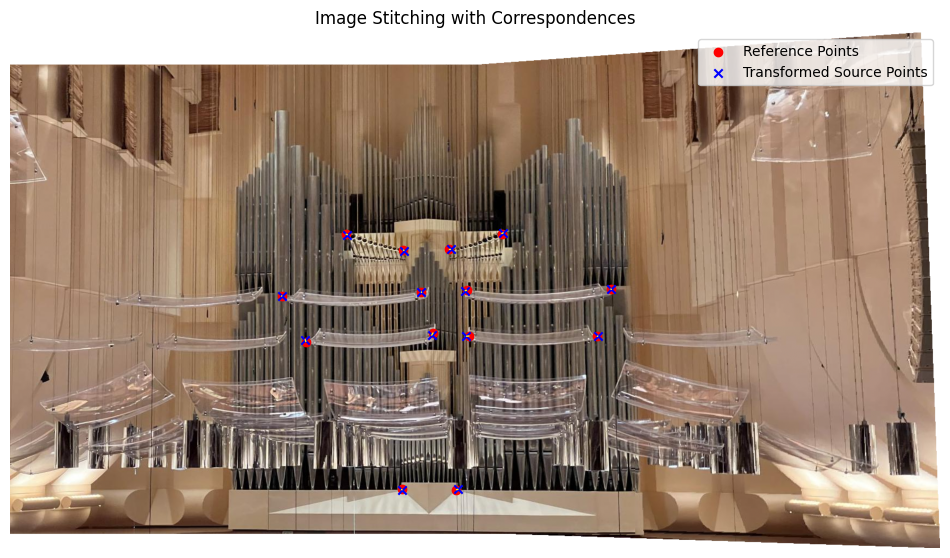
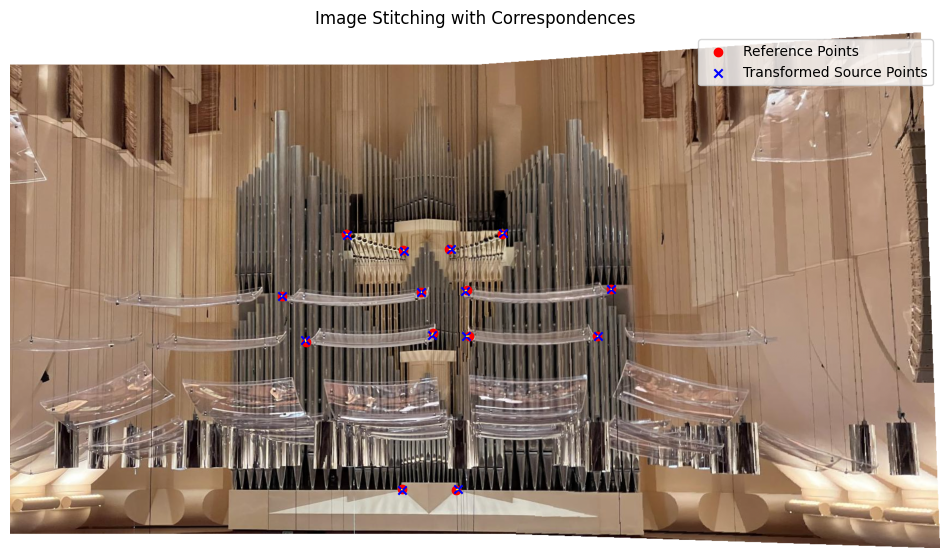
proj4

diff --git a/proj4/index.html b/proj4/index.html
@@ -103,7 +103,7 @@
 <body>
     <div class="main-content">
         <header>
-            <h1>CS180 Project 4A: Image Warping and Mosaicing</h1>
+            <h1>CS180 Project 4: Auto Stitching Photo Mosaics</h1>
             <h3 class="author">Author: Ziqian Luo</h3>
         </header>
 
@@ -113,6 +113,16 @@
                 <li><a href="#recover-homographies">Recover Homographies</a></li>
                 <li><a href="#rectification">Image Rectification</a></li>
                 <li><a href="#blend-mosaic">Blend the Images into a Mosaic</a></li>
+                <li><a href="#corner-detection">Detect Corners using Harris</a></li>
+                <li><a href="#ANMS">Adaptive Non-Maximal Suppression</a></li>
+                <li><a href="#feature-extraction">Feature Descriptor Extraction</a></li>
+                <li><a href="#feature-matching">Feature Matching using NNs and Lowe's Ratio Test</a></li>
+                <li><a href="#ransac">RANSAC for Robust Feature Matching</a></li>
+                <li><a href="#results">Results</a></li>
+                <li><a href="#bell-whistles1">Bell & Whistles: Multiscale Features</a></li>
+                <li><a href="#bell-whistles2">Bell & Whistles: Rotation-Invariant Features</a></li>
+                <li><a href="#bell-whistles3">Bell & Whistles: Auto Matching</a></li>
+                <li><a href="#reflection">Reflection</a></li>
             </ul>
         </div>
 
@@ -200,27 +210,25 @@
                     <li>Retrieves the alpha channels from both the canvas and warped source image.</li>
                 </ul>
             </li>
-            <li><strong>Determine Overlapping and Non-Overlapping Regions</strong>:
+            <li><strong>Compute Distance Transforms</strong>:
                 <ul>
-                    <li>Creates masks for overlapping and unique regions.</li>
+                    <li>Calculates the Euclidean distance transform for the alpha channels of both images, where each pixel's value represents the distance to the nearest edge of the image region.</li>
                 </ul>
             </li>
-            <li><strong>Create Blending Mask</strong>:
+            <li><strong>Create Blending Mask with Two-Band Blending</strong>:
                 <ul>
-                    <li>Combines masks to define blending behavior.</li>
-                </ul>
-            </li>
-            <li><strong>Blend the Images</strong>:
-                <ul>
-                    <li>Uses the <code>blend_images</code> function from project2 (multiresolution blending) with the <code>blend_mask</code> to create <code>blended_img</code>.</li>
+                    <li>Uses a low-pass filter (Gaussian blur) to separate smooth regions and a high-pass filter to retain details.</li>
+                    <li>For the high-pass blend, uses the maximum distance transform value between the two images to select the sharper details.</li>
+                    <li>For the low-pass blend, combines the images using a weighted ratio of the distance transforms to smoothly blend overlapping areas.</li>
                 </ul>
             </li>
             <li><strong>Create and Add Alpha Channel to Blended Image</strong>:
                 <ul>
-                    <li>Constructs an alpha channel and combines it with the RGB blended image.</li>
+                    <li>Constructs an alpha channel for the final blended image by combining non-zero regions from both images and adds it to the RGB blended result.</li>
                 </ul>
             </li>
         </ol>
+        
             
         <p>Below is an example of the original images and the final mosaic:</p>
         <img src="results\src1.png" alt="Source Image 1">
@@ -230,18 +238,69 @@
         <img src="results\src3.png" alt="Source Image 3">
         <img src="results\mosaic3.png" alt="Mosaic 3">
 
-        <p> Here are the laplacian stacks in the blending process</p>
-        <img src="results\lap11.png" alt="Laplacian Stack 1">
-        <img src="results\lap12.png" alt="Laplacian Stack 2">
-        <img src="results\lap21.png" alt="Laplacian Stack 3">
-        <img src="results\lap22.png" alt="Laplacian Stack 4">
-        <img src="results\lap31.png" alt="Laplacian Stack 5">
-        <img src="results\lap32.png" alt="Laplacian Stack 6">
+        <p> Here are the distance transforms, low-pass blended, and high-pass blended images for the second mosaic. </p>
+        <img src="results\distances.png" alt="Distance Transform">
+        <img src="results\blended.png" alt="Blended">
 
-        <p> The images turned out fairly well with multiresolution blending, with no visible seams. However, the second mosaic still shows some defects with many correspondences defined, which is due to the complexity of the images.</p>
-        <footer>
-            &copy; 2024 Ziqian Luo. No Rights Reserved.
-        </footer>
+        <p> The images turned out fairly well with multiresolution blending.</p>
+
+        <h2 id="corner-detection">Harris Corner Detection</h2>
+        <p>I used sample code for Harris Corner Detection and, by adjusting the parameters, identified key corners in the image.</p>
+        <img src="resultsb/harris.png" alt="Detected Corners">
+        
+        <h2 id="ANMS">Adaptive Non-Maximal Suppression (ANMS)</h2>
+        <p>I implemented the Adaptive Non-Maximal Suppression (ANMS) algorithm to refine the detected corners by reducing their number. This algorithm sorts corners based on response values and iteratively removes those that are too close. The distance threshold is determined by the smallest distance to the nearest corner with a higher response value. Below is the result of applying ANMS to the Harris-detected corners:</p>
+        <img src="resultsb/anms.png" alt="ANMS Result">
+        
+        <h2 id="feature-extraction">Feature Descriptor Extraction</h2>
+        <p>Feature descriptors were obtained by extracting 40x40 patches around each corner, downsampling them to 8x8, and normalizing them to zero mean. Prior to extraction, the image was blurred to minimize noise.</p>
+        <img src="resultsb/des.png" alt="Feature Descriptors">
+        
+        <h2 id="feature-matching">Feature Matching with NN and Lowe's Ratio Test</h2>
+        <p>To match feature descriptors, I computed the 1-NN and 2-NN for each feature patch, representing them as 64-dimensional vectors and using Euclidean distance with a KD tree. Matching is established using Lowe's Ratio Test, where the distance to the 1-NN is divided by the distance to the 2-NN and considered valid if the ratio is below a specified threshold. Matches can be further refined by discarding those where the distance to the second nearest neighbor is below the average outlier distance, as suggested in the referenced paper.</p>
+        <img src="resultsb/goodmatch.png" alt="Initial Feature Matches">
+        <img src="resultsb/filteredmatch.png" alt="Refined Feature Matches">
+        
+        <h2 id="ransac">RANSAC for Robust Feature Matching</h2>
+        <p>I applied the RANSAC algorithm, as covered in class, to filter out mismatches and identify the best homography matrix. This involves randomly selecting four matches to compute the homography, then applying it across matches and counting inliers within a specified threshold.</p>
+        <img src="resultsb/ransacmatch.png" alt="Inliers after RANSAC">
+        
+        <h2 id="results">Final Results</h2>
+        <p>Below are the results comparing manual and automated methods:</p>
+        <img src="results/mosaic1.png" alt="Manual Match 1">
+        <img src="resultsb/mosaic1.png" alt="Automated Match 1">
+        <img src="results/mosaic2.png" alt="Manual Match 2">
+        <img src="resultsb/mosaic2.png" alt="Automated Match 2">
+        <img src="results/mosaic3.png" alt="Manual Match 3">
+        <img src="resultsb/mosaic3.png" alt="Automated Match 3">
+        
+        <h2 id="bell-whistles1">Bell & Whistles: Multiscale Feature Extraction</h2>
+        <p>I implemented multiscale feature extraction by applying Gaussian blurring to the image and downsampling it by a factor of two. Features were then extracted from each scale and combined to enhance the final feature descriptors, showing improvements over the single-scale approach.</p>
+        <img src="resultsb/bwmulti0.png" alt="Multiscale Features">
+        <img src="resultsb/bwmulti1.png" alt="Multiscale Features">
+        <img src="resultsb/bwmulti2.png" alt="Multiscale Features">
+        <img src="resultsb/bwmulti3.png" alt="Multiscale Features">
+        <img src="resultsb/bwmatch.png" alt="Multiscale Matched Features">
+        
+        <h2 id="bell-whistles2">Bell & Whistles: Rotation-Invariant Features</h2>
+        <p>To make the feature extraction rotation-invariant, I computed the gradient at each corner and aligned the image to extract features that remain stable under rotation.</p>
+        <img src="resultsb/bwarrow.png" alt="Rotation-Invariant Feature Visualization">
+        <img src="resultsb/bwpatch.png" alt="Rotation-Invariant Feature Patches">
+        <img src="resultsb/bwdes.png" alt="Rotation-Invariant Descriptors">
+        
+        <h2 id="bell-whistles3">Bell & Whistles: Automatic Panorama Matching</h2>
+        <p>To create an automated panorama detection process for unordered images, I began by calculating robust correspondences between each image pair using RANSAC. Images with enough correspondences were grouped as part of the same panorama, forming nodes in a graph where each connected component represents a unique panorama. Within each component, I used a maximum spanning tree (MST) to prioritize the strongest connections, reducing redundancy by minimizing the number of image pairs needed to stitch the panorama. To determine the ideal base image, I calculated the betweenness centrality of each node in the MST, selecting the image with the highest centrality as the anchor, thereby minimizing transformation complexity during stitching. This approach builds on techniques from <a href="https://inst.eecs.berkeley.edu/~cs180/fa23/upload/files/proj4B/alec.li/">Alec Li's Project 4B writeup</a>.</p>
+
+        <img src="resultsb/bwimages.png" alt="Detected Image Pairs for Panorama">
+        <img src="resultsb/bwgraph.png" alt="Panorama Graph Structure">
+        <img src="resultsb/bwc1.png" alt="Automated Panorama Stitching">
+        <img src="resultsb/bwc2.png" alt="Automated Panorama Stitching">
+        <img src="resultsb/bwc3.png" alt="Automated Panorama Stitching">
+        
+        <h2 id="reflection">Reflection</h2>
+        <p>This project provided a valuable learning experience. It strengthened my understanding of image warping, stitching, and feature extraction, while also showing me how useful graph algorithms like maximum spanning trees and centrality can be for organizing and simplifying panorama detection. I learned the importance of stability in homography calculations and saw the benefits of using multiresolution blending along with features that are both scale- and rotation-invariant. Working through the challenges of building and refining these techniques was both demanding and rewarding, and I’m excited to apply them in future projects.</p>
+        
+        <footer>&copy; 2024 Ziqian Luo. No Rights Reserved.</footer>
     </div>
 </body>
 </html>
